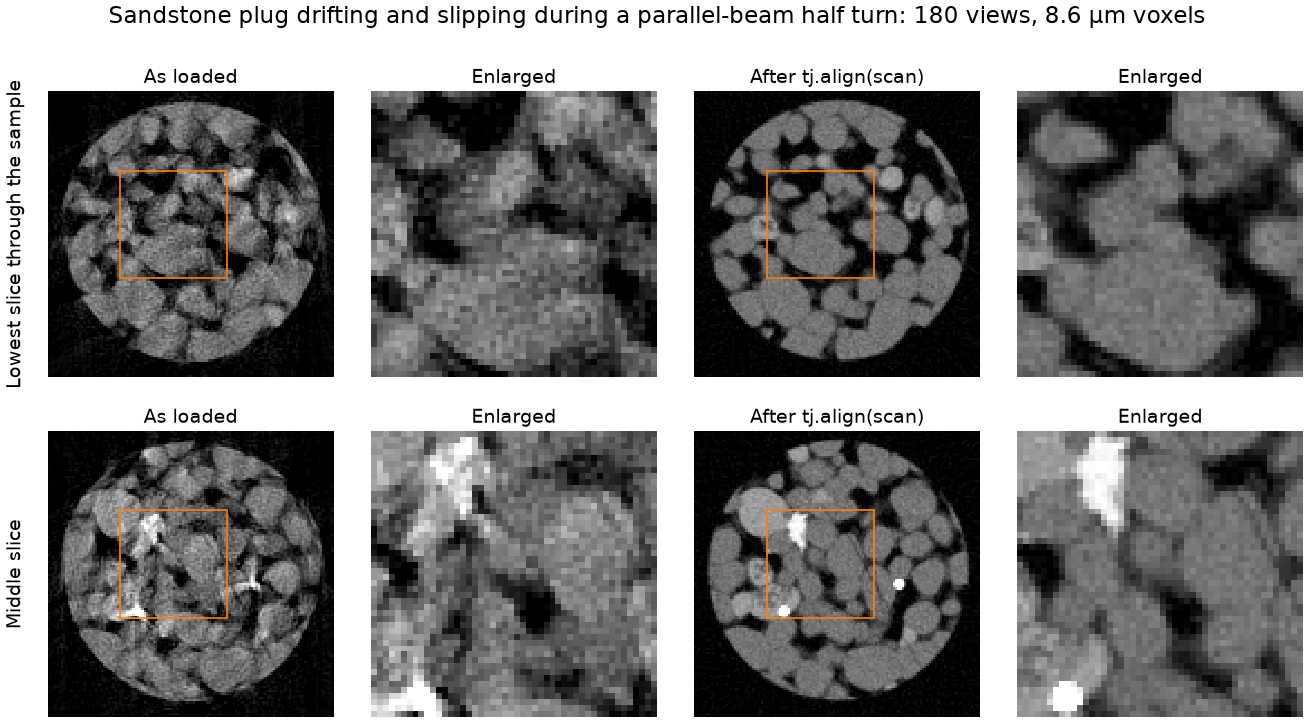
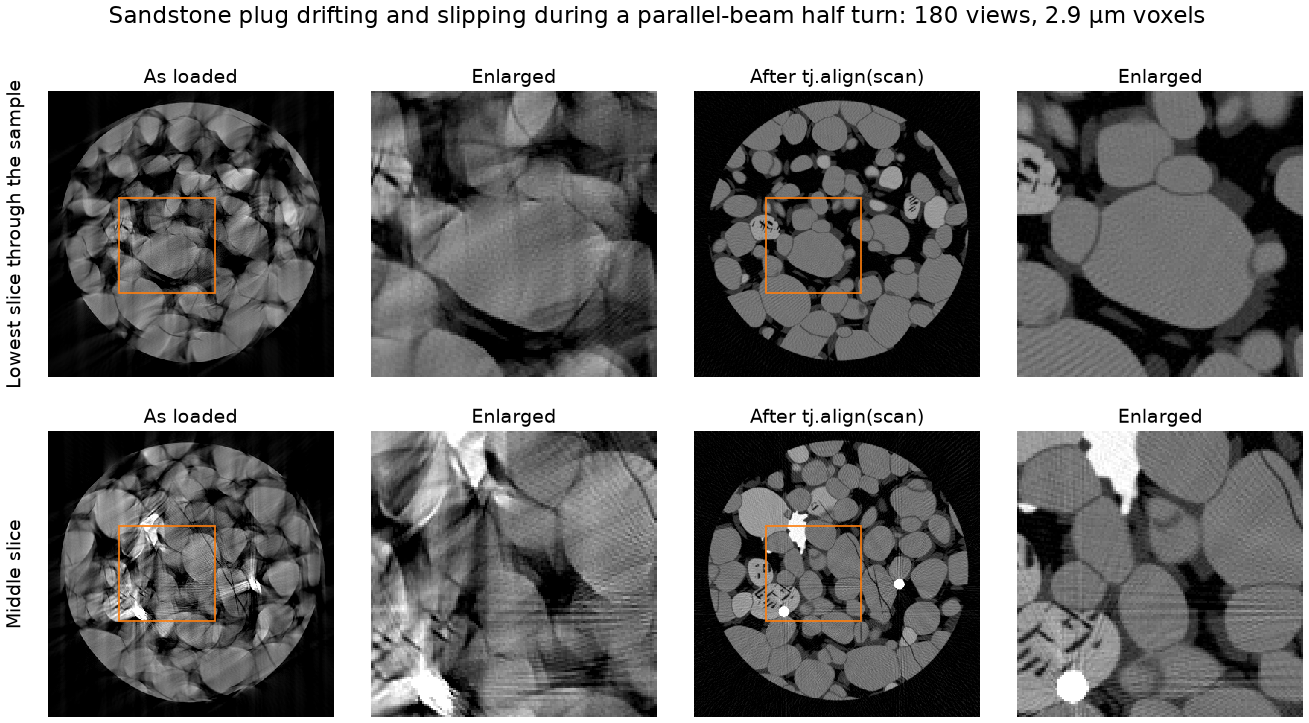
Draw the rock alignment figure at 384 voxels from noise-free data
The sandstone plug is now reconstructed on a 384-voxel grid from a 576-voxel
truth without noise, so its grains are smooth and their edges clean. The motion
keeps its physical size. The script takes about nine minutes on an 8 GB GPU.

diff --git a/examples/gallery/rock_alignment.py b/examples/gallery/rock_alignment.py
@@ -1,12 +1,15 @@
 """A moving sandstone plug before and after the plain ``tj.align`` call.
 
-The sandstone core (``bench/phantoms/porous_rock.py``) is scanned in parallel beam over a
-half turn while it drifts smoothly by about a voxel and a half and slips by two voxels a third
-of the way through. The scan is reconstructed as loaded, with the nominal geometry, and after
-``tj.align(scan)``; both use ``tj.reconstruct``'s default method. Two slices through the
-sample, each with one enlarged region, share one grey range.
+The sandstone core (``bench/phantoms/porous_rock.py``), voxelised 1.5 times finer than the
+384-voxel reconstruction grid, is scanned in parallel beam over a half turn without noise while
+it drifts smoothly by up to 4.5 voxels and slips by 6 voxels a third of the way through. The
+scan is reconstructed as loaded, with the nominal geometry, and after ``tj.align(scan)``; both use
+``tj.reconstruct``'s default method. Two slices through the sample, each with one enlarged
+region, share one grey range.
 
     uv run python examples/gallery/rock_alignment.py alignment-rock.png
+
+It takes about nine minutes on an 8 GB laptop GPU; ``--size 64`` makes a quick small version.
 """
 
 from __future__ import annotations
@@ -14,35 +17,37 @@ from __future__ import annotations
 import argparse
 from pathlib import Path
 
-from _common import counts, panel, phantom, save, style
+from _common import panel, phantom, save, style
 import matplotlib.pyplot as plt
 import numpy as np
 
 import tomojax as tj
 
-N = 128
-TRUTH_N = 192
+N = 384
+TRUTH_N = 576
 VIEWS = 180
-PHOTONS = 1e5
-CROP = 48
+CROP = 128
 
 
-def motion(views: int, voxel: float, seed: int) -> np.ndarray:
-    """A per-view table (alpha, beta, phi, x, z, y): smooth drift and one slip, no rotation."""
+def motion(views: int, unit: float, seed: int) -> np.ndarray:
+    """A per-view table (alpha, beta, phi, x, z, y): smooth drift and one slip, no rotation.
+
+    ``unit`` is 1/128 of the field of view: the drift reaches about 1.5 units, the slip 2.
+    """
     rng = np.random.default_rng(seed)
     t = np.linspace(0.0, 1.0, views)
     table = np.zeros((views, 6))
     for column in (3, 4):
         phase = rng.uniform(0, 2 * np.pi, 2)
         drift = 0.9 * np.sin(2 * np.pi * t + phase[0]) + 0.6 * np.sin(4 * np.pi * t + phase[1])
-        table[:, column] = voxel * (
+        table[:, column] = unit * (
             drift + 2.0 * (np.arange(views) >= views // 3) * rng.choice((-1, 1))
         )
     return table
 
 
 def simulate(seed: int = 0, size: int = N) -> tuple[tj.Scan, np.ndarray, float]:
-    """The moving scan as loaded (nominal geometry), the truth on its grid, and the voxel size."""
+    """The moving scan as loaded (nominal geometry), the finer truth, and the voxel size."""
     fine_n = size * TRUTH_N // N
     truth, meta = phantom("porous_rock", fine_n)
     fov = float(meta["fov_mm"])
@@ -52,26 +57,25 @@ def simulate(seed: int = 0, size: int = N) -> tuple[tj.Scan, np.ndarray, float]:
     detector = tj.Detector(size, size, voxel, voxel)
     geometry = tj.ParallelGeometry(grid, detector, np.linspace(0.0, 180.0, VIEWS, endpoint=False))
     moved = tj.Scan(np.zeros((VIEWS, size, size), np.float32), geometry).with_poses(
-        motion(VIEWS, voxel, seed)
+        motion(VIEWS, fov / 128, seed)
     )
-    line_integrals = np.asarray(tj.project(moved.geometry, truth, grid=fine))
-    rng = np.random.default_rng(seed + 1)
-    measured = -np.log(np.maximum(counts(line_integrals, PHOTONS, rng), 1.0) / PHOTONS)
-    return tj.Scan(measured.astype(np.float32), geometry), truth, voxel
+    line_integrals = np.asarray(tj.project(moved.geometry, truth, grid=fine), np.float32)
+    return tj.Scan(line_integrals, geometry), truth, voxel
 
 
-def sharpest(image: np.ndarray, inside: np.ndarray) -> tuple[slice, slice]:
-    """The CROP-square window inside the sample with the strongest edges."""
+def sharpest(image: np.ndarray, inside: np.ndarray, crop: int) -> tuple[slice, slice]:
+    """The ``crop``-square window inside the sample with the strongest edges."""
     gy, gx = np.gradient(image)
     edges = np.hypot(gx, gy) * inside
     best, where = -1.0, (0, 0)
-    for row in range(0, image.shape[0] - CROP, 4):
-        for column in range(0, image.shape[1] - CROP, 4):
-            if inside[row : row + CROP, column : column + CROP].all():
-                score = edges[row : row + CROP, column : column + CROP].sum()
+    step = max(1, crop // 8)
+    for row in range(0, image.shape[0] - crop, step):
+        for column in range(0, image.shape[1] - crop, step):
+            if inside[row : row + crop, column : column + crop].all():
+                score = edges[row : row + crop, column : column + crop].sum()
                 if score > best:
                     best, where = score, (row, column)
-    return slice(where[0], where[0] + CROP), slice(where[1], where[1] + CROP)
+    return slice(where[0], where[0] + crop), slice(where[1], where[1] + crop)
 
 
 def main() -> None:
@@ -90,14 +94,15 @@ def main() -> None:
     inside = radius < 0.42 * size
     core = radius < 0.33 * size  # crops on the sample's grains, not its outer edge
     filled = np.flatnonzero(truth.reshape(truth.shape[0], -1).mean(axis=1) > 0.5 * truth.mean())
-    bottom = int(filled[0] * size / truth.shape[0]) + 4
+    bottom = int(filled[0] * size / truth.shape[0]) + size // 32
     heights = (("Lowest slice through the sample", bottom), ("Middle slice", size // 2))
     top = float(np.percentile(aligned[size // 2][inside], 99.5))
 
+    side = CROP * size // N
     style()
     fig, axes = plt.subplots(2, 4, figsize=(9.0, 4.9))
     for (label, z), row in zip(heights, axes, strict=True):
-        crop = sharpest(aligned[z], core)
+        crop = sharpest(aligned[z], core, side)
         for (title, volume), (whole, zoom) in zip(
             (("As loaded", loaded), ("After tj.align(scan)", aligned)),
             ((row[0], row[1]), (row[2], row[3])),
@@ -107,8 +112,8 @@ def main() -> None:
             whole.add_patch(
                 plt.Rectangle(
                     (crop[1].start, crop[0].start),
-                    CROP,
-                    CROP,
+                    side,
+                    side,
                     fill=False,
                     color="tab:orange",
                     lw=0.8,

diff --git a/docs/align-a-scan.md b/docs/align-a-scan.md
@@ -103,8 +103,9 @@ parallel-ray geometry, and the data cannot tell them apart.
 
 ![A simulated sandstone plug sliced near its base and through its middle, as loaded and after tj.align(scan), each with an enlarged region. As loaded, the grains are doubled and smeared; after the call their edges are sharp.](images/alignment-rock.png)
 
-A simulated sandstone plug drifts by about a voxel and a half during a parallel-beam half turn
-and slips by two voxels a third of the way through. The plain `tj.align(scan)` removes both.
+A simulated sandstone plug, 384 voxels across, drifts by up to four and a half voxels during a
+parallel-beam half turn and slips by six voxels a third of the way through. The plain
+`tj.align(scan)` removes both.
 
 ```bash
 uv run python examples/gallery/rock_alignment.py alignment-rock.png
